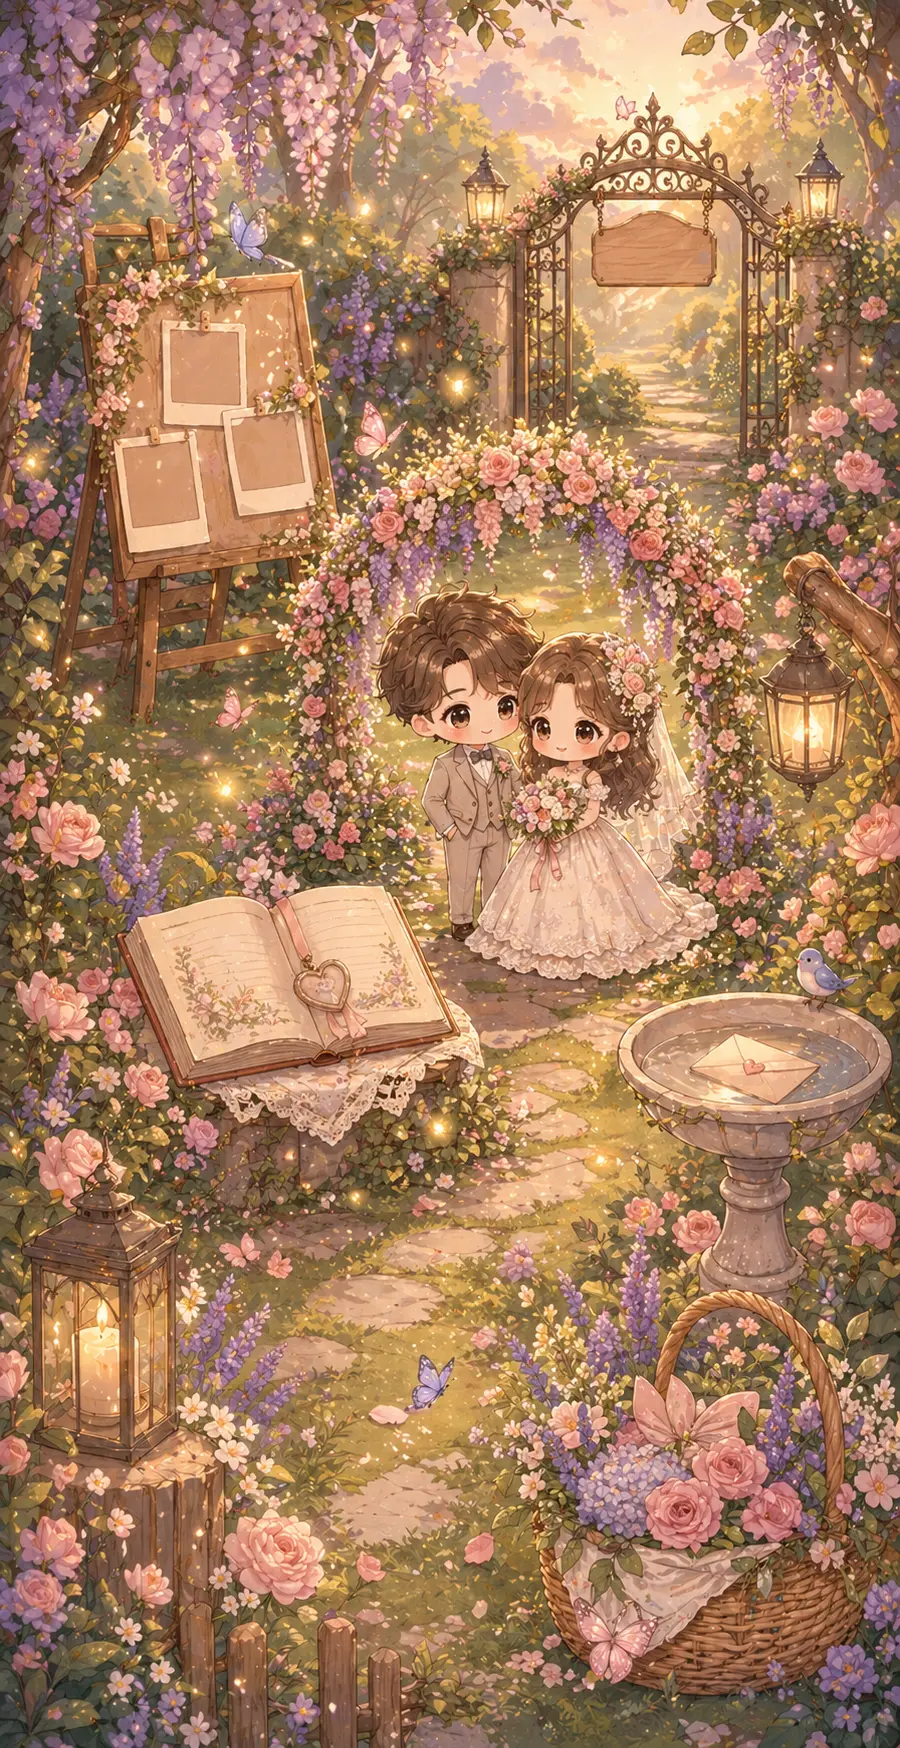
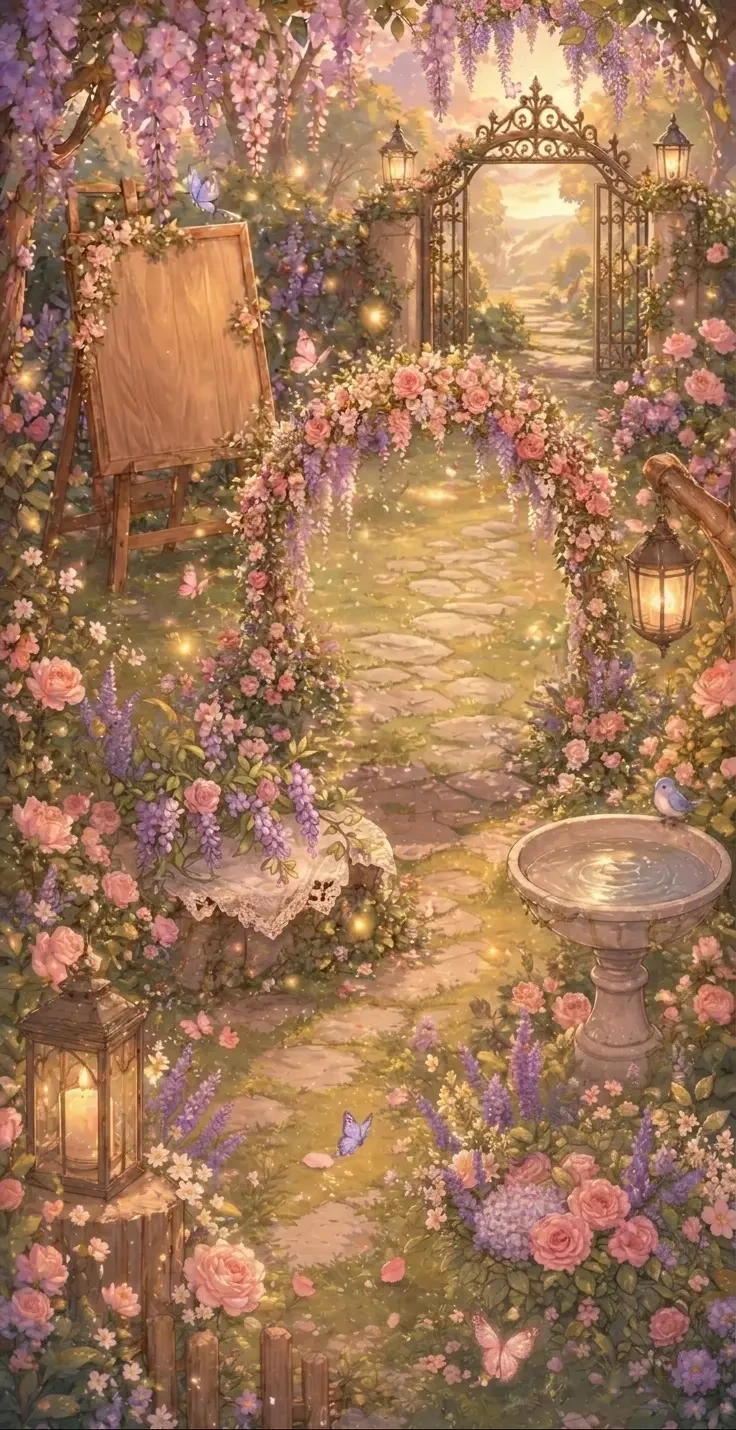
Refactor code structure for improved readability and maintainability

diff --git a/resources/js/Components/invitation/templates/scene/SceneHotspot.vue b/resources/js/Components/invitation/templates/scene/SceneHotspot.vue
@@ -23,13 +23,14 @@ const emit = defineEmits(['click'])
     >
         <!-- Mode ilustrasi -->
         <template v-if="hotspot.illustration">
+            <span v-if="hotspot.labelPosition === 'top'" class="hotspot-label">{{ hotspot.label }}</span>
             <img
                 :src="hotspot.illustration"
                 :alt="hotspot.label"
                 class="hotspot-img"
                 draggable="false"
             />
-            <span class="hotspot-label">{{ hotspot.label }}</span>
+            <span v-if="hotspot.labelPosition !== 'top'" class="hotspot-label">{{ hotspot.label }}</span>
         </template>
 
         <!-- Fallback: text pill (kalau belum ada ilustrasi) -->
@@ -56,14 +57,18 @@ const emit = defineEmits(['click'])
     width:      100%;
     height:     auto;
     object-fit: contain;
-    filter:     drop-shadow(0 0 6px rgba(100, 220, 255, 0.5));
-    transition: filter 0.2s ease, transform 0.2s ease;
+    animation:  img-glow 3s ease-in-out infinite;
+    transition: transform 0.2s ease;
     user-select: none;
     -webkit-user-drag: none;
 }
 
+@keyframes img-glow {
+    0%, 100% { filter: drop-shadow(0 0 4px rgba(255, 255, 220, 0.3)); }
+    50%       { filter: drop-shadow(0 0 10px rgba(255, 255, 220, 0.65)); }
+}
+
 .hotspot-wrap:active .hotspot-img {
-    filter:    drop-shadow(0 0 12px rgba(100, 220, 255, 0.9));
     transform: scale(0.94);
 }
 
@@ -104,13 +109,13 @@ const emit = defineEmits(['click'])
    CSS Animations
    ═══════════════════════════════ */
 
-/* Float: naik-turun pelan (default karakter, objek melayang) */
+/* Float: breath scale pelan (default) */
 .anim-float {
     animation: anim-float 3.5s ease-in-out infinite;
 }
 @keyframes anim-float {
-    0%, 100% { transform: translate(-50%, -50%) translateY(0px); }
-    50%       { transform: translate(-50%, -50%) translateY(-7px); }
+    0%, 100% { transform: translate(-50%, -50%) scale(1); }
+    50%       { transform: translate(-50%, -50%) scale(1.06); }
 }
 
 /* Sway: goyang kiri-kanan (objek menggantung, baju, papan) */
@@ -141,6 +146,25 @@ const emit = defineEmits(['click'])
 @keyframes anim-pulse {
     0%, 100% { transform: translate(-50%, -50%) scale(1); }
     50%       { transform: translate(-50%, -50%) scale(1.08); }
+}
+
+/* Swing: papan goyang atas-bawah, pivot dari atas */
+.anim-swing {
+    animation: anim-swing 2.5s ease-in-out infinite;
+    transform-origin: top center;
+}
+@keyframes anim-swing {
+    0%, 100% { transform: translate(-50%, -50%) perspective(300px) rotateX(-15deg); }
+    50%       { transform: translate(-50%, -50%) perspective(300px) rotateX(15deg); }
+}
+
+/* Pulse Strong: kembang-kempis lebih besar */
+.anim-pulse-strong {
+    animation: anim-pulse-strong 2s ease-in-out infinite;
+}
+@keyframes anim-pulse-strong {
+    0%, 100% { transform: translate(-50%, -50%) scale(1); }
+    50%       { transform: translate(-50%, -50%) scale(1.18); }
 }
 
 /* Spin: rotasi pelan (dress code hanger, ornamen bulat) */

diff --git a/resources/js/Components/invitation/templates/scene/configs/GardenConfig.js b/resources/js/Components/invitation/templates/scene/configs/GardenConfig.js
@@ -5,57 +5,58 @@ export default {
     hotspots: [
         {
             id:           'gallery',
-            x: 20, y: 15,
+            x: 25, y: 23,
             label:        'Gallery',
             section:      'gallery',
-            illustration: '/images/templates/garden/objects/gallery-easel.png',
-            animation:    'sway',
+            illustration: '/images/templates/garden/objects/polaroid.png',
+            animation:    'pulse',
             size:         76,
         },
         {
             id:           'date_venue',
-            x: 60, y: 12,
+            x: 72, y: 11.7,
             label:        'Date & Venue',
             section:      'events',
-            illustration: '/images/templates/garden/objects/gate-sign.png',
-            animation:    'sway',
+            illustration: '/images/templates/garden/objects/papan2.png',
+            animation:    'swing',
             size:         70,
         },
         {
             id:           'about',
-            x: 50, y: 40,
+            x: 60, y: 45,
             label:        'About Us',
             section:      'couple',
             illustration: '/images/templates/garden/objects/couple.png',
             animation:    'float',
-            size:         90,
+            size:         170,
         },
         {
             id:           'love_story',
-            x: 30, y: 55,
+            x: 33, y: 60,
             label:        'Love Story',
             section:      'love_story',
             illustration: '/images/templates/garden/objects/diary.png',
             animation:    'pulse',
-            size:         58,
+            size:         125,
         },
         {
             id:           'rsvp',
-            x: 80, y: 62,
+            x: 85, y: 63,
             label:        'RSVP',
             section:      'rsvp',
-            illustration: '/images/templates/garden/objects/birdbath.png',
-            animation:    'bounce',
+            illustration: '/images/templates/garden/objects/letter.png',
+            animation:    'pulse-strong',
             size:         64,
         },
         {
             id:           'gift',
-            x: 65, y: 70,
+            x: 85, y: 88,
             label:        'Gift',
             section:      'gift',
-            illustration: '/images/templates/garden/objects/basket.png',
-            animation:    'float',
-            size:         68,
+            illustration:  '/images/templates/garden/objects/basket.png',
+            animation:     'float',
+            size:          150,
+            labelPosition: 'top',
         },
     ],
 }

diff --git a/resources/js/Components/invitation/templates/scene/content/SceneContentGallery.vue b/resources/js/Components/invitation/templates/scene/content/SceneContentGallery.vue
@@ -13,7 +13,7 @@ defineProps({
         <div v-else class="grid grid-cols-2 gap-2">
             <div v-for="img in galleries" :key="img.id" class="rounded-lg overflow-hidden">
                 <img
-                    :src="img.file_url"
+                    :src="img.image_url ?? img.file_url"
                     :alt="img.caption ?? ''"
                     loading="lazy"
                     class="w-full h-40 object-cover"

diff --git a/database/seeders/TemplateSeeder.php b/database/seeders/TemplateSeeder.php
@@ -49,10 +49,10 @@ class TemplateSeeder extends Seeder
                 ],
             ],
             'gallery' => [
-                '/demo/prewedding-1.svg',
-                '/demo/prewedding-2.svg',
-                '/demo/prewedding-3.svg',
-                '/demo/prewedding-4.svg',
+                '/image/demo-image/bride-groom.png',
+                '/image/demo-image/bride-groom.png',
+                '/image/demo-image/bride-groom.png',
+                '/image/demo-image/bride-groom.png',
             ],
         ];
 
@@ -142,7 +142,7 @@ class TemplateSeeder extends Seeder
                 'category_id'    => $storybook->id,
                 'name'           => 'Beach',
                 'slug'           => 'beach',
-                'thumbnail_url'  => '/images/templates/beach/scene.webp',
+                'thumbnail_url'  => '/images/templates/beach/thumbnail.webp',
                 'description'    => 'Template pernikahan interaktif bergaya pantai tropis — jelajahi setiap bagian undangan layaknya petualangan seru di tepi laut.',
                 'default_config' => [],
                 'demo_data'      => $weddingDemo,
@@ -154,7 +154,7 @@ class TemplateSeeder extends Seeder
                 'category_id'    => $storybook->id,
                 'name'           => 'Garden',
                 'slug'           => 'garden',
-                'thumbnail_url'  => '/images/templates/garden/scene.webp',
+                'thumbnail_url'  => '/images/templates/garden/thumbnail.webp',
                 'description'    => 'Template pernikahan interaktif bergaya taman bunga yang hidup — temukan setiap detail undangan di antara hamparan bunga dan pepohonan yang rimbun.',
                 'default_config' => [],
                 'demo_data'      => $weddingDemo,
@@ -166,7 +166,7 @@ class TemplateSeeder extends Seeder
                 'category_id'    => $storybook->id,
                 'name'           => 'Night Sky',
                 'slug'           => 'night-sky',
-                'thumbnail_url'  => '/images/templates/nightsky/scene.webp',
+                'thumbnail_url'  => '/images/templates/night-sky/thumbnail.webp',
                 'description'    => 'Template pernikahan interaktif bergaya langit malam berbintang — rayakan cinta di bawah ribuan bintang yang berkelip memukau.',
                 'default_config' => [],
                 'demo_data'      => $weddingDemo,
